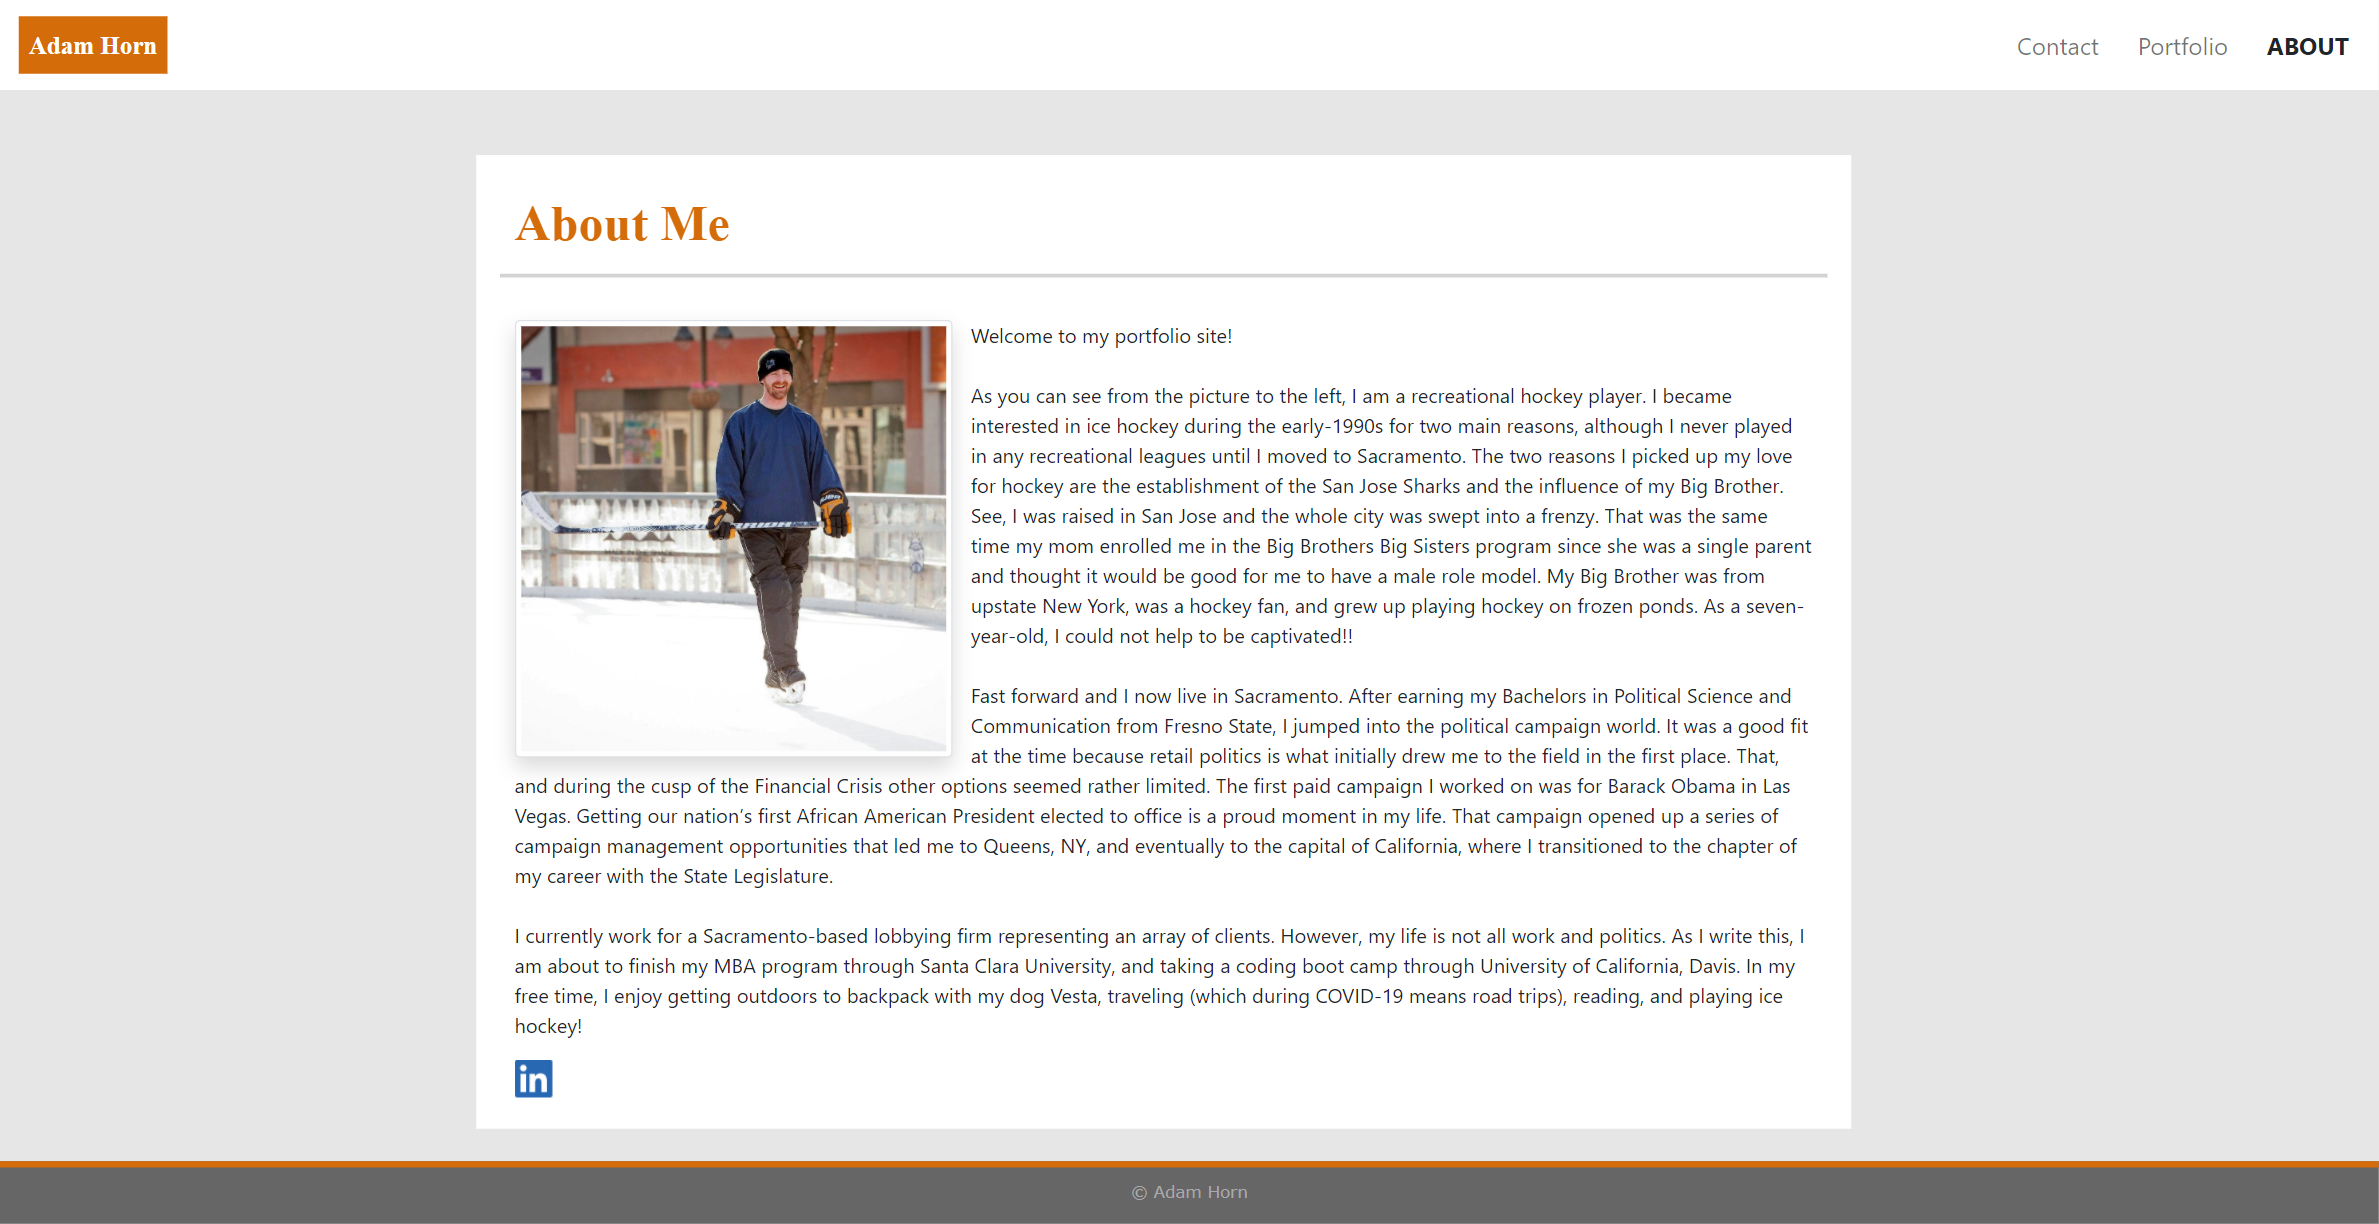
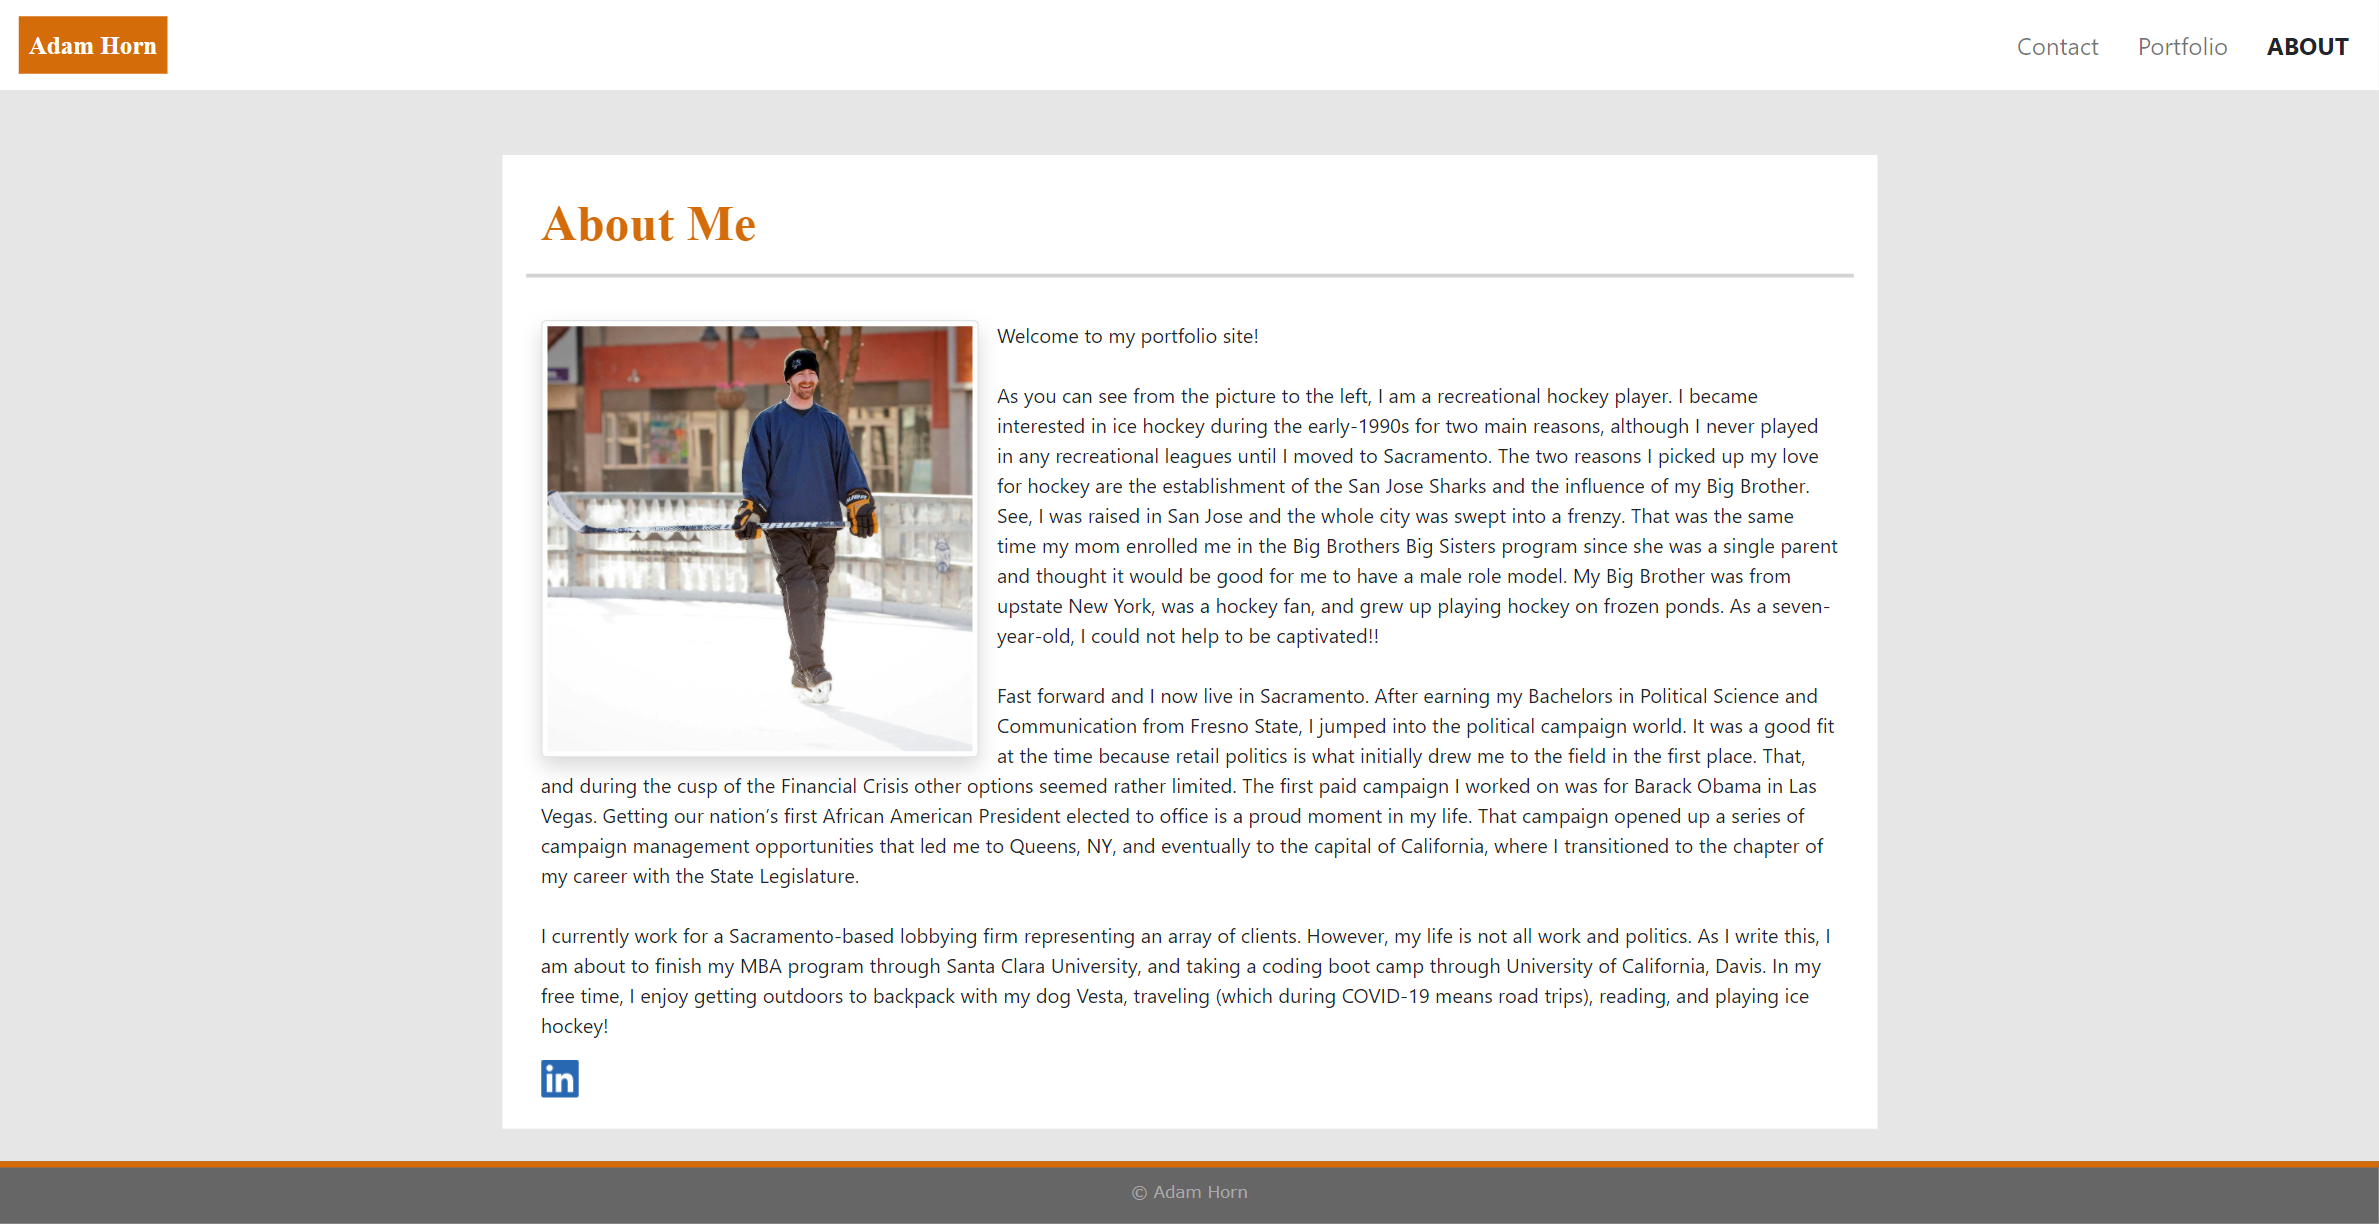
Updated container margin and screenshot for README

Changed region(s): [[0.1866, 0.1242, 0.8087, 0.9314]]

diff --git a/assets/style.css b/assets/style.css
@@ -41,9 +41,8 @@ header {
 }
 
 .container-xs {
-    max-width: 1100px;
-    margin-left: 15px;
-    margin-right: 15px;
+    max-width: 370px;
+    margin: auto;
 }
 
 /* Settings for thumbnail in About Me section */
@@ -100,11 +99,15 @@ footer {
     border-top: solid 5px #d46c0a;
 }
 
+@media screen and (min-width: 750px) {
+    .container-xs {
+        max-width: 740px;
+    }
+}
 
 @media screen and (min-width: 1260px) {
     .container-xs {
         max-width: 1100px;
-        margin-left: 20%;
     }
 
     .img-thumbnail {

diff --git a/index.html b/index.html
@@ -48,7 +48,7 @@
     <main class="background">
 
         <!-- Main content container -->
-        <section class="container-xs bg-white">
+        <section class="container-xs justify-content-center bg-white">
             <div class="row m-1">
                 <header>About Me</header>
             </div>

diff --git a/contact.html b/contact.html
@@ -48,7 +48,7 @@
     <main class="background">
 
         <!-- Main content container -->
-        <section class="container-xs bg-white">
+        <section class="container-xs bg-white m-auto">
             <div class="row m-1">
                 <header>Contact</header>
             </div>

diff --git a/README.md b/README.md
@@ -10,4 +10,4 @@ This is a website built on Bootstrap to help improve my skills with responsive d
 
 ## Link to Live Site
 
-[Responsive Portfolio Site](https://mradamhorn.github.io/responsive-portfolio/)  
+[Responsive Portfolio Site](https://mradamhorn.github.io/responsive-portfolio/)
